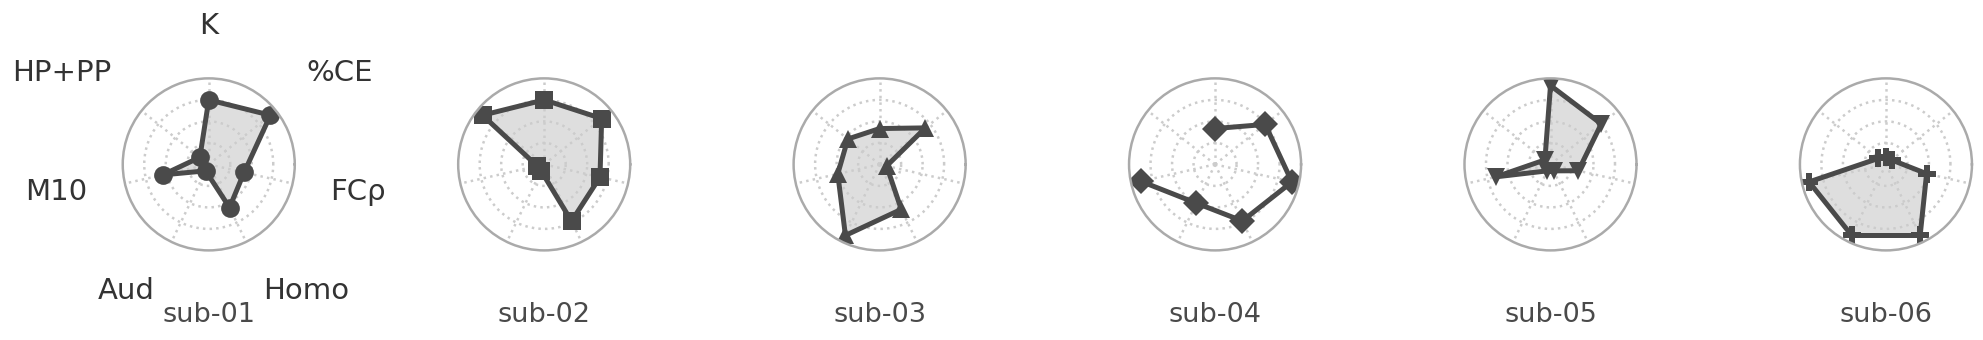
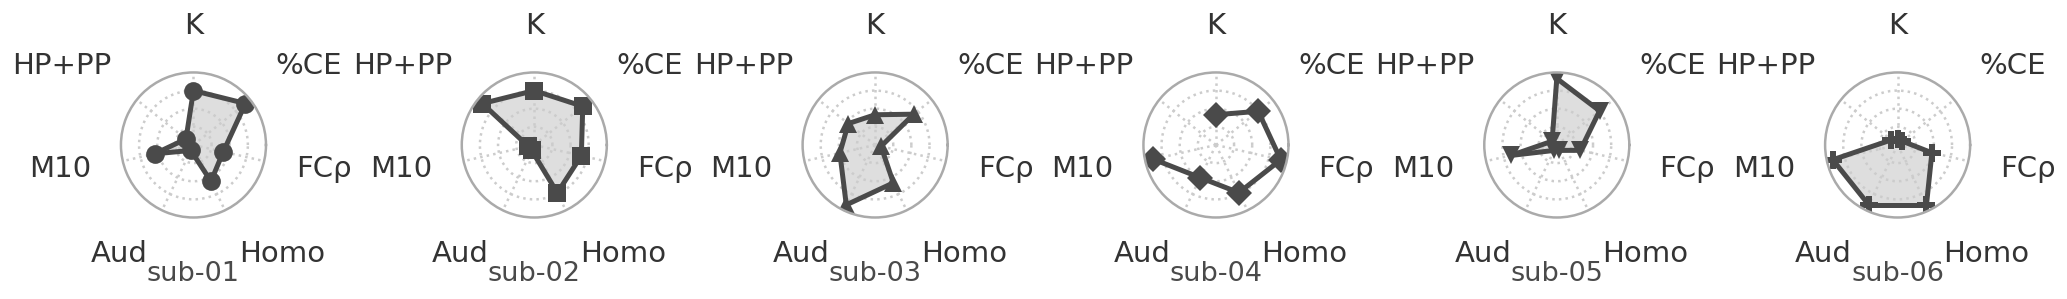
docs(supp): S6-C subject labels sub-0X; S7 white bg + axis labels on all subjects

diff --git a/script/fig_S7_individual_differences.py b/script/fig_S7_individual_differences.py
@@ -373,8 +373,9 @@ def render_strip(scaled_df: pd.DataFrame, valid_mask: pd.DataFrame, out_dir: Pat
             ax, sub,
             scaled_df.loc[sub].tolist(),
             valid_mask.loc[sub].tolist(),
-            show_axis_labels=(sub == SUBJECTS[0]),
+            show_axis_labels=True,
         )
+        ax.set_facecolor("white")
         ax.text(
             0.5, -0.30, sub,
             transform=ax.transAxes,
@@ -382,15 +383,16 @@ def render_strip(scaled_df: pd.DataFrame, valid_mask: pd.DataFrame, out_dir: Pat
             fontsize=6.5, color=SUBJECT_NEUTRAL,
         )
 
-    fig.subplots_adjust(wspace=0.95, left=0.04, right=0.96, top=0.82, bottom=0.16)
+    fig.subplots_adjust(wspace=1.35, left=0.04, right=0.96, top=0.82, bottom=0.16)
+    fig.patch.set_facecolor("white")
 
     out_dir.mkdir(parents=True, exist_ok=True)
     pdf_path = out_dir / "figS7_radar_strip.pdf"
     png_path = out_dir / "figS7_radar_strip.png"
     svg_path = out_dir / "figS7_radar_strip.svg"
-    fig.savefig(pdf_path, bbox_inches="tight", pad_inches=0.04, transparent=True)
-    fig.savefig(png_path, bbox_inches="tight", pad_inches=0.04, transparent=True, dpi=300)
-    fig.savefig(svg_path, bbox_inches="tight", pad_inches=0.04, transparent=True)
+    fig.savefig(pdf_path, bbox_inches="tight", pad_inches=0.04, facecolor="white")
+    fig.savefig(png_path, bbox_inches="tight", pad_inches=0.04, facecolor="white", dpi=300)
+    fig.savefig(svg_path, bbox_inches="tight", pad_inches=0.04, facecolor="white")
     plt.close(fig)
     return pdf_path
 

diff --git a/script/fig_S6_cross_stimulus_validity.py b/script/fig_S6_cross_stimulus_validity.py
@@ -308,7 +308,7 @@ def panel_C_presence_donut(SUBJECTS, presence, OUT, plt,
             _ax.text(0, -1.30, f"{int((_act & _pmask).sum())}/{int(_act.sum())}",
                      ha="center", va="top", fontsize=6.5, color="#444444")
             if _ri == 0:
-                _ax.set_title(_sub.replace("sub-", "S"), fontsize=6.5, pad=3)
+                _ax.set_title(_sub, fontsize=6.5, pad=3)
             if _ci == 0:
                 _ax.text(-1.62, 0, _row_lab, rotation=90, ha="center", va="center",
                          fontsize=6.5)
